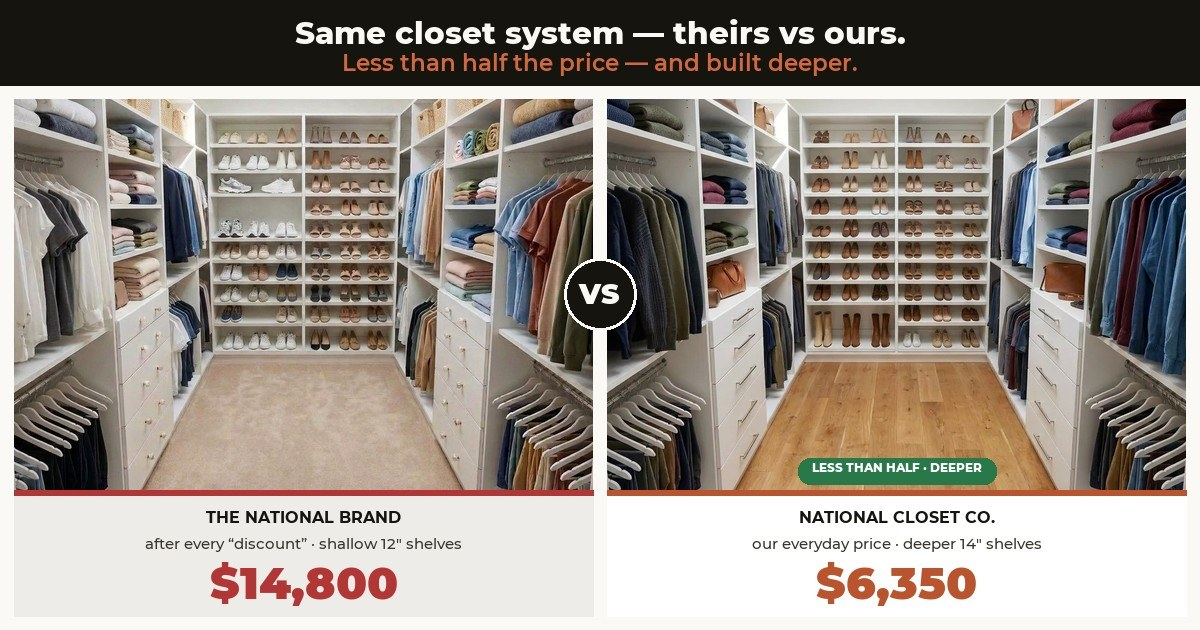
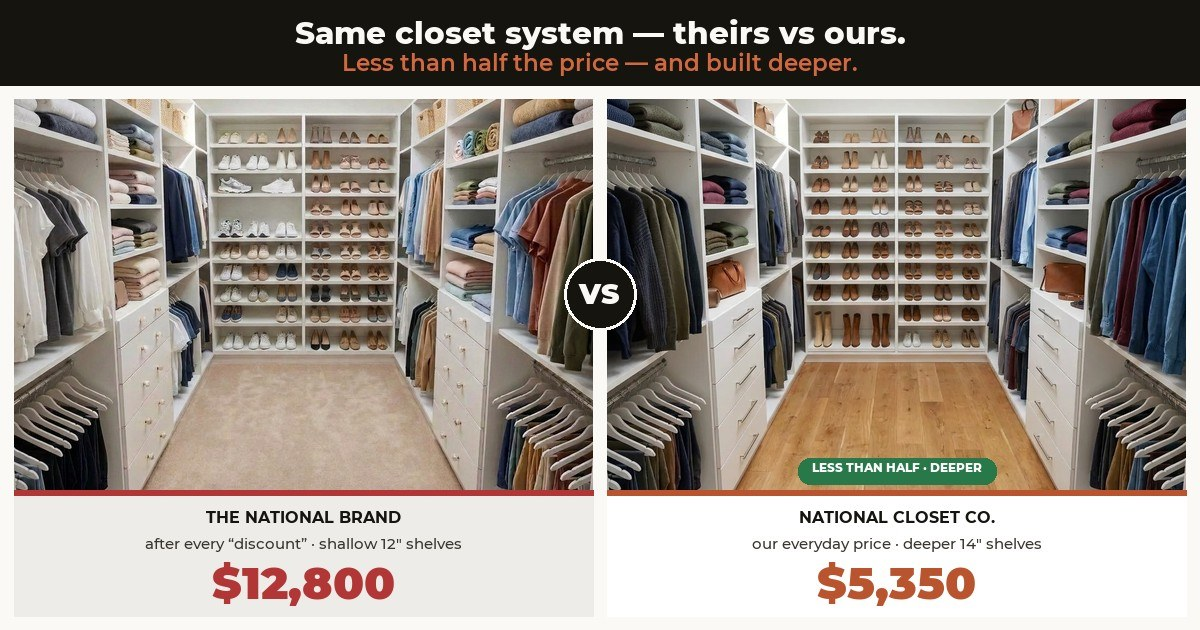
Fake-discounts: reword caption, reprice ours $5,350 / theirs $12,800

Changed region(s): [[0.1542, 0.9048, 0.3392, 0.9651], [0.6783, 0.9048, 0.8325, 0.9651]]

diff --git a/blog/fake-discounts-65-percent-off.html b/blog/fake-discounts-65-percent-off.html
@@ -150,7 +150,7 @@ src="https://www.facebook.com/tr?id=904015652453670&ev=PageView&noscript=1"
 <section class="section section--tight">
   <div class="wrap">
     <div class="prose">
-      <figure><img src="/img/blog-no-fake-discounts.webp" alt="Two all-white melamine walk-in closets built to the same layout — a national brand's on carpet with shallow 12-inch shelves priced $14,800 after discounts, and National Closet Company's on hardwood with deeper 14-inch shelves at our everyday $6,350" width="1200" height="780" /><figcaption>The same closet system, built two ways: the national brand's — carpet, shallow 12&Prime; shelves — at <strong>$14,800</strong> after every &ldquo;discount,&rdquo; and ours — hardwood, <strong>deeper 14&Prime; shelves</strong> — at our everyday <strong>$6,350</strong>. Same layout, less than half the price.</figcaption></figure>
+      <figure><img src="/img/blog-no-fake-discounts.webp" alt="Two all-white melamine walk-in closets built to the same layout — a national brand's on carpet with shallow 12-inch shelves priced $12,800 after discounts, and National Closet Company's on hardwood with deeper 14-inch shelves at our everyday $5,350" width="1200" height="780" /><figcaption>One closet system, two ways to buy it. The national brand&rsquo;s version &mdash; carpet, shallow 12&Prime; shelves &mdash; still lands at <strong>$12,800</strong> after every &ldquo;discount.&rdquo; Ours &mdash; hardwood, <strong>deeper 14&Prime; shelves</strong>, same layout &mdash; is <strong>$5,350</strong> every day. Less than half the price, built deeper.</figcaption></figure>
 
       <p>Every homeowner shopping for a custom closet runs into the same performance. You sit down for a quote, you hear a number that makes your stomach drop, and then — right on cue — the discounts begin. First it's <strong>40% off</strong>. Then the salesperson finds another <strong>15%</strong>. And then comes the closer: sign <em>tonight</em>, and there's another <strong>10 to 20%</strong> on top.</p>
 
